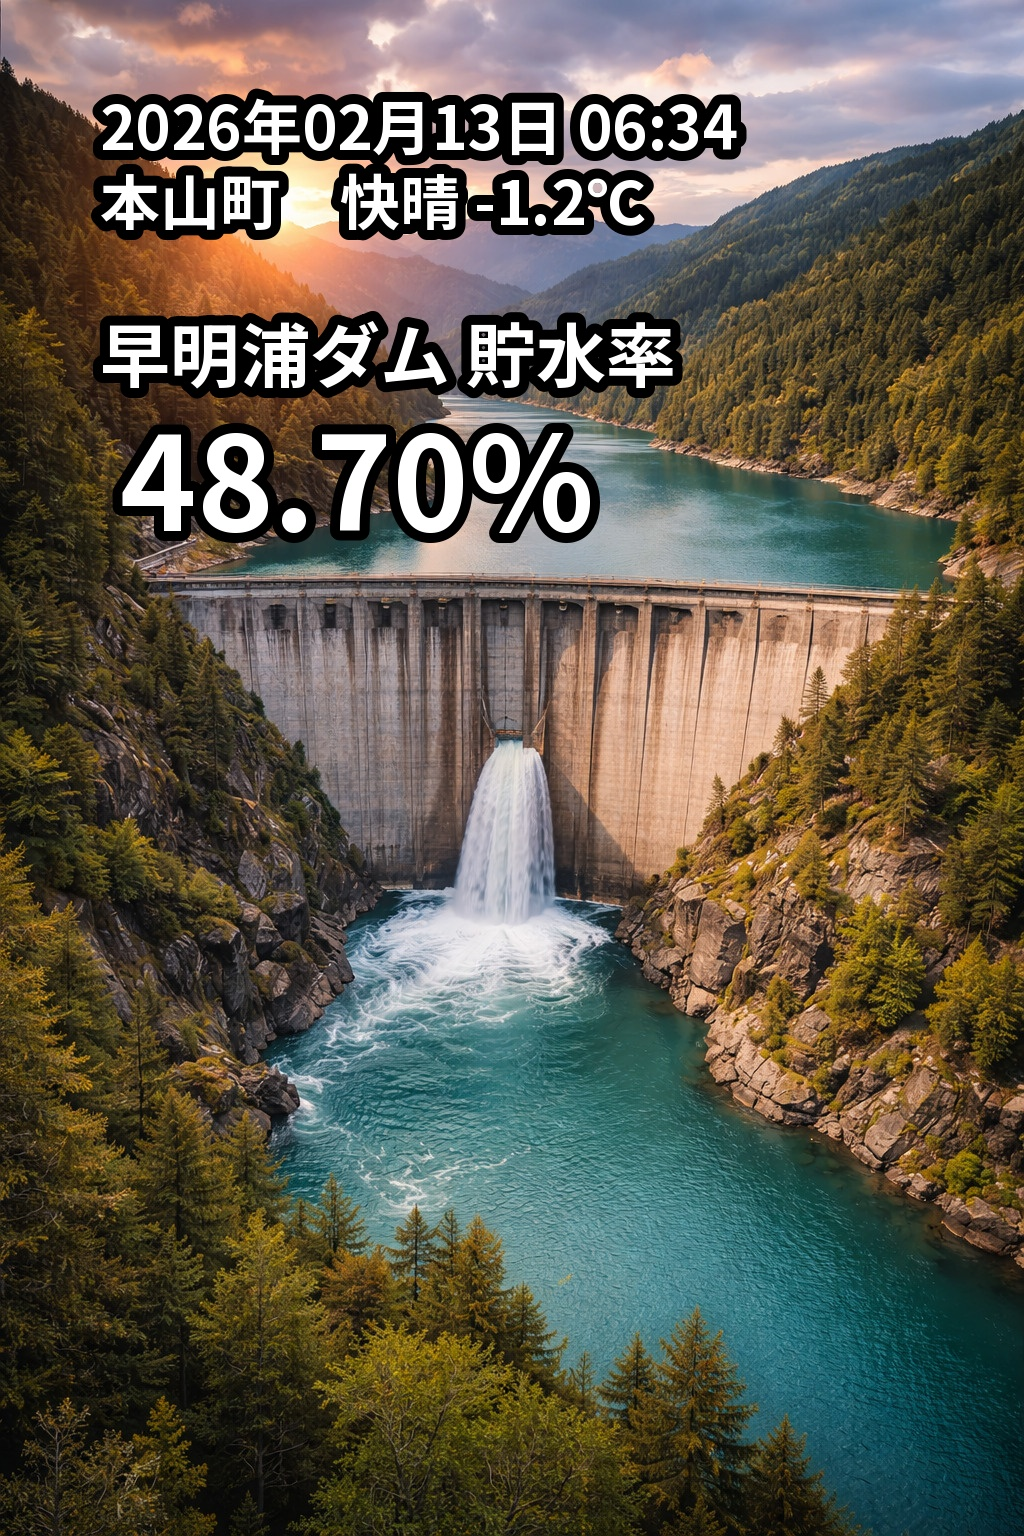
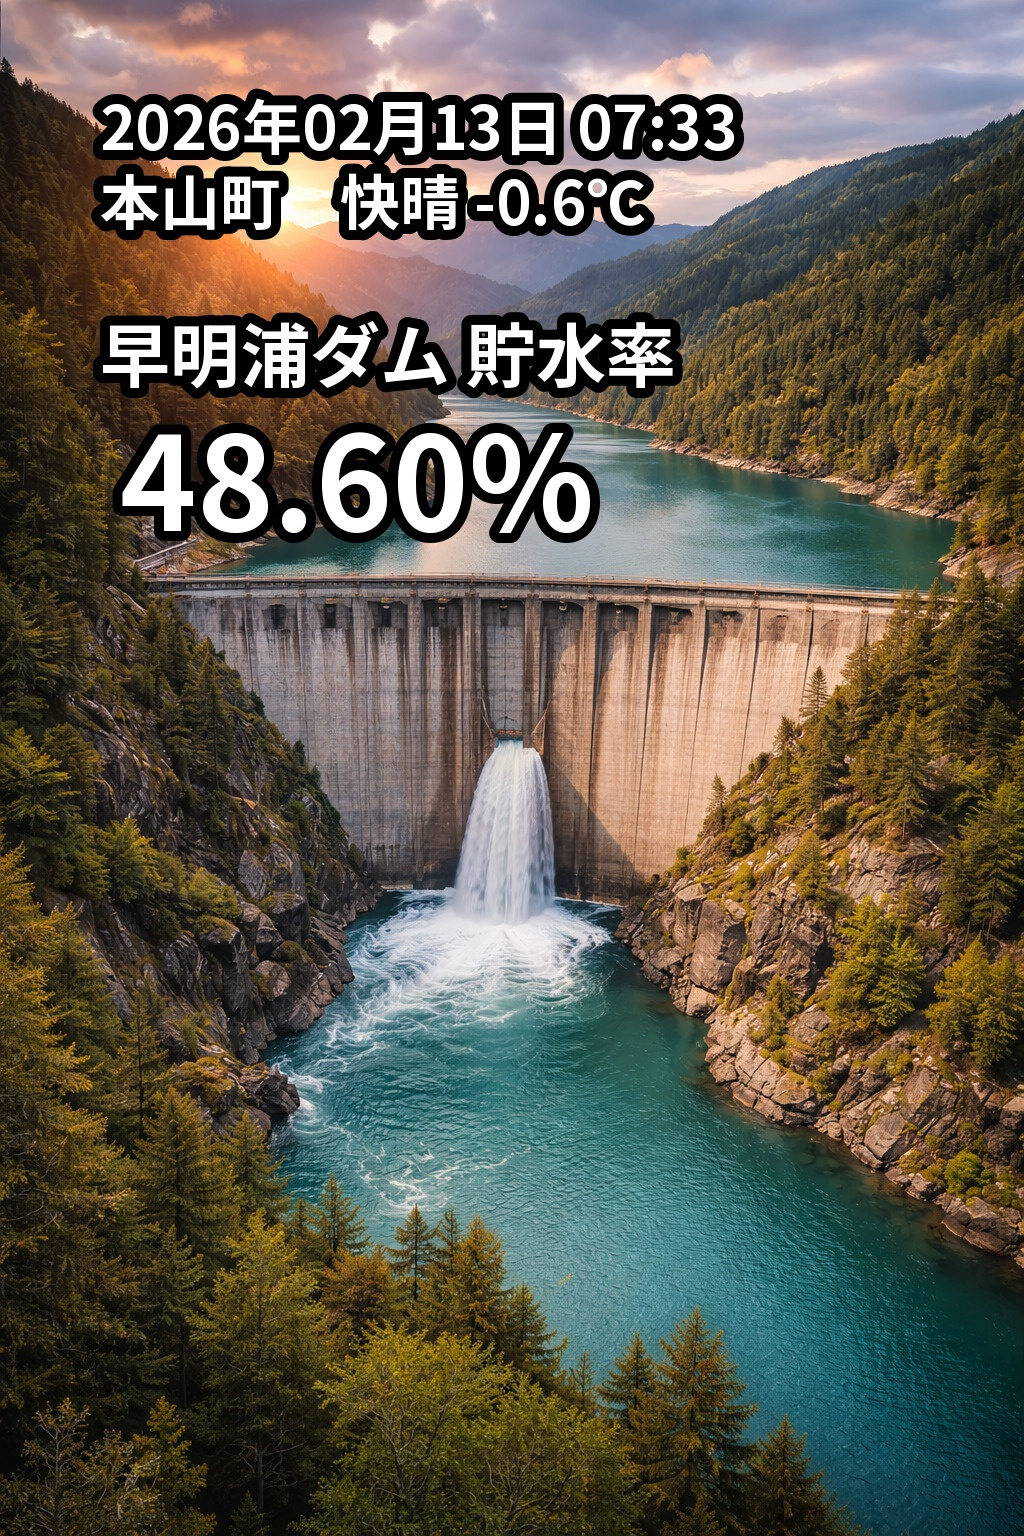
Update daily image

diff --git a/index.html b/index.html
@@ -10,6 +10,6 @@
   </style>
 </head>
 <body>
-  <img src="result.jpg?v=202602130634" alt="早明浦ダム 貯水率" />
+  <img src="result.jpg?v=202602130733" alt="早明浦ダム 貯水率" />
 </body>
 </html>
